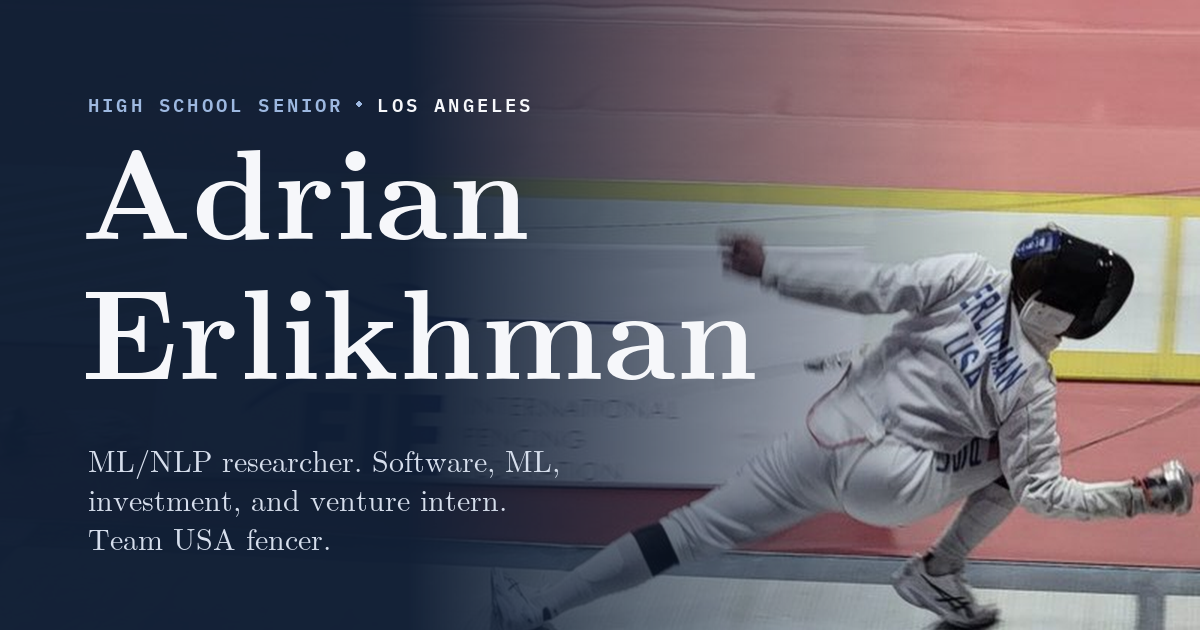
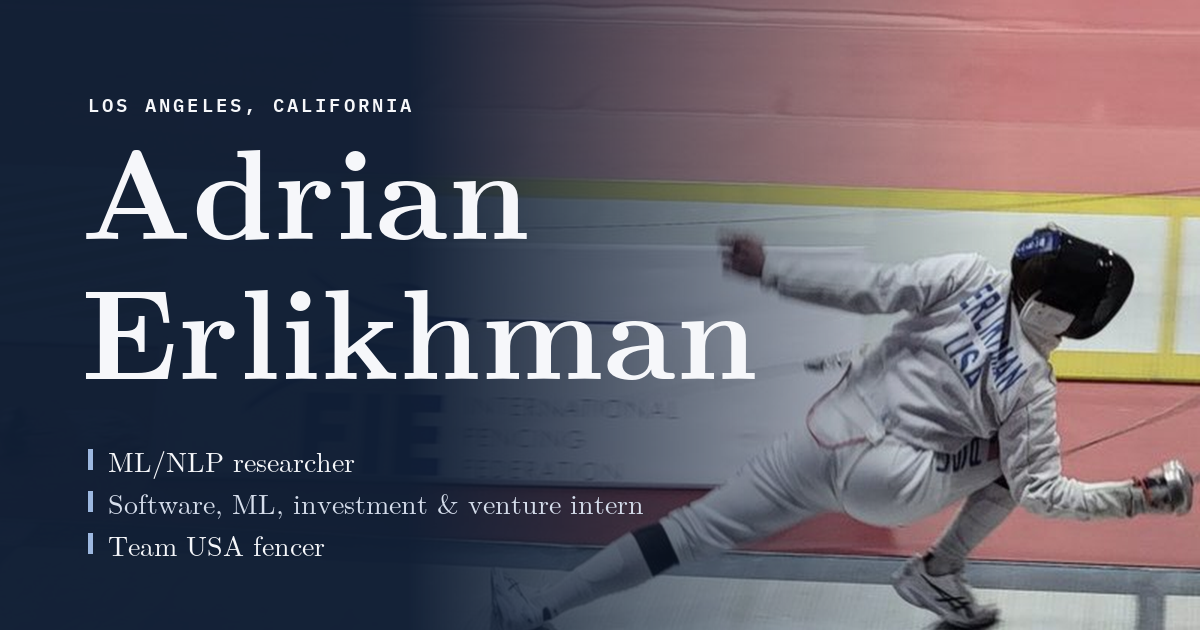
Link preview: Los Angeles, California, and the one-liner as three lines (#181)
Adrian's pick: LOS ANGELES, CALIFORNIA on top, and his researcher/intern/
fencer words stacked in three lines, each with a light-blue marker, over
the Pan-Ams lunge. og.png ?v=12; alt text follows.

diff --git a/index.html b/index.html
@@ -34,17 +34,17 @@
 <meta property="og:title" content="Adrian Erlikhman — ML Research · Full-Stack · Team USA Épée">
 <meta property="og:description" content="ML/NLP researcher. Software, ML, investment, and venture intern. Team USA fencer.">
 <meta property="og:url" content="https://adrianerlikhman.is-a.dev/">
-<meta property="og:image" content="https://adrianerlikhman.is-a.dev/og.png?v=11">
+<meta property="og:image" content="https://adrianerlikhman.is-a.dev/og.png?v=12">
 <meta property="og:image:width" content="1200">
 <meta property="og:image:height" content="630">
 <meta property="og:image:type" content="image/png">
-<meta property="og:image:alt" content="Adrian Erlikhman, high school senior in Los Angeles: ML/NLP researcher; software, ML, investment and venture intern; Team USA fencer. Behind the text, a photo of him lunging for Team USA at the Pan-American Championships.">
+<meta property="og:image:alt" content="Adrian Erlikhman, Los Angeles, California: ML/NLP researcher; software, ML, investment and venture intern; Team USA fencer. Behind the text, a photo of him lunging for Team USA at the Pan-American Championships.">
 <!-- Twitter card -->
 <meta name="twitter:card" content="summary_large_image">
 <meta name="twitter:title" content="Adrian Erlikhman — ML Research · Full-Stack · Team USA Épée">
 <meta name="twitter:description" content="ML/NLP researcher. Software, ML, investment, and venture intern. Team USA fencer.">
-<meta name="twitter:image" content="https://adrianerlikhman.is-a.dev/og.png?v=11">
-<meta name="twitter:image:alt" content="Adrian Erlikhman, high school senior in Los Angeles: ML/NLP researcher; software, ML, investment and venture intern; Team USA fencer. Behind the text, a photo of him lunging for Team USA at the Pan-American Championships.">
+<meta name="twitter:image" content="https://adrianerlikhman.is-a.dev/og.png?v=12">
+<meta name="twitter:image:alt" content="Adrian Erlikhman, Los Angeles, California: ML/NLP researcher; software, ML, investment and venture intern; Team USA fencer. Behind the text, a photo of him lunging for Team USA at the Pan-American Championships.">
 <link rel="preconnect" href="https://fonts.googleapis.com">
 <link rel="preconnect" href="https://fonts.gstatic.com" crossorigin>
 <link href="https://fonts.googleapis.com/css2?family=IBM+Plex+Mono:wght@400;500;600&display=swap" rel="stylesheet">

diff --git a/tools/make_og.py b/tools/make_og.py
@@ -55,15 +55,14 @@ MONO_SB = os.path.join(FD, "IBMPlexMono-SemiBold.ttf")
 
 MARGIN = 88
 
-# 16 Oct: no dash, no coordinates, but not "Los Angeles" alone, so it
-# carries the hero's own line ("i'm a senior in los angeles")
-KICK = "HIGH SCHOOL SENIOR"
-KICK_2 = "LOS ANGELES"
+# 16 Oct: no dash, no coordinates; Adrian picked the full place name
+KICK = "LOS ANGELES, CALIFORNIA"
 NAME = ["Adrian", "Erlikhman"]
-# Adrian's own words, the same as the meta description (7 Oct)
-TAGLINE = ["ML/NLP researcher. Software, ML,",
-           "investment, and venture intern.",
-           "Team USA fencer."]
+# Adrian's own words, the meta description's, one per line with a marker
+# (16 Oct, the layout he picked)
+TAGLINE = ["ML/NLP researcher",
+           "Software, ML, investment & venture intern",
+           "Team USA fencer"]
 # 16 Oct: the credential lines are gone (Adrian: just the researcher and
 # intern line); the site carries the achievements.
 
@@ -105,15 +104,9 @@ def build():
     im = Image.composite(Image.new("RGB", (W, H), NAVY), im, mask)
     d = ImageDraw.Draw(im)
 
-    # ---- kicker: HIGH SCHOOL SENIOR · LOS ANGELES ---------------------
+    # ---- kicker: LOS ANGELES, CALIFORNIA -------------------------------
     f_kick = ImageFont.truetype(MONO_SB, 19)
-    ky = 92
-    x = MARGIN
-    x += tracked(d, (x, ky), KICK, f_kick, SKY, 3.2)
-    x += 16
-    d.ellipse([x, ky + 9, x + 5, ky + 14], fill=SKY)
-    x += 21
-    tracked(d, (x, ky), KICK_2, f_kick, WHITE, 3.2)
+    tracked(d, (MARGIN, 92), KICK, f_kick, WHITE, 3.2)
 
     # ---- name -------------------------------------------------------------
     f_name = lm(128)
@@ -121,10 +114,12 @@ def build():
         bb = d.textbbox((0, 0), t, font=f_name)
         d.text((MARGIN - 7, 150 + i * 140 - bb[1]), t, font=f_name, fill=WHITE)
 
-    # ---- tagline ----------------------------------------------------------
-    f_tag = lm(30, bold=False)
+    # ---- tagline: three lines, each with a light-blue marker ------------
+    f_tag = lm(28, bold=False)
     for i, t in enumerate(TAGLINE):
-        d.text((MARGIN, 438 + i * 39), t, font=f_tag, fill=SOFT)
+        y = 440 + i * 42
+        d.rectangle([MARGIN, y + 9, MARGIN + 4, y + 29], fill=SKY)
+        d.text((MARGIN + 20, y), t, font=f_tag, fill=SOFT if i == 1 else WHITE)
     return im
 
 

diff --git a/CLAUDE.md b/CLAUDE.md
@@ -390,13 +390,13 @@ from LaTeX in `resume/`.
   (~33 KB each). GUST font licence. Google Fonts now loads only Plex Mono.
 - The demos' dark panels (`.guess`, the lab) went from warm brown to deep
   navy with a light-blue accent (`--g-acc:#9db8e0`); wrong answers stay red.
-- `og.png` (`tools/make_og.py`, `?v=11` on both pages) is, since 15 Oct
+- `og.png` (`tools/make_og.py`, `?v=12`) is, since 15 Oct
   (Adrian picked C of three takes, after asking for no bubbles and "a cool
   picture"): his Team USA lunge at the Pan-Ams (`fencing-1.jpg`) across the
-  card under a navy fade from the left; "HIGH SCHOOL SENIOR · LOS ANGELES"
-  (16 Oct: no dash, no coordinates, and not "Los Angeles" on its own; the
-  words are the hero's); the name in white Latin Modern; his
-  meta-description words in three lines, and nothing else (the credential
+  card under a navy fade from the left; "LOS ANGELES, CALIFORNIA" on top
+  (16 Oct, his pick of three: no dash, no coordinates, not "high school
+  senior"); the name in white Latin Modern; his meta-description words as
+  three lines, each with a light-blue marker, and nothing else (the credential
   lines came off on 16 Oct: "just do the researcher intern stuff"). Earlier
   the same day it was chips, then chips beside his headshot. Chat apps show a
   still, so no animation. The OTFs sit in the gitignored `tools/fonts/`. Bump
